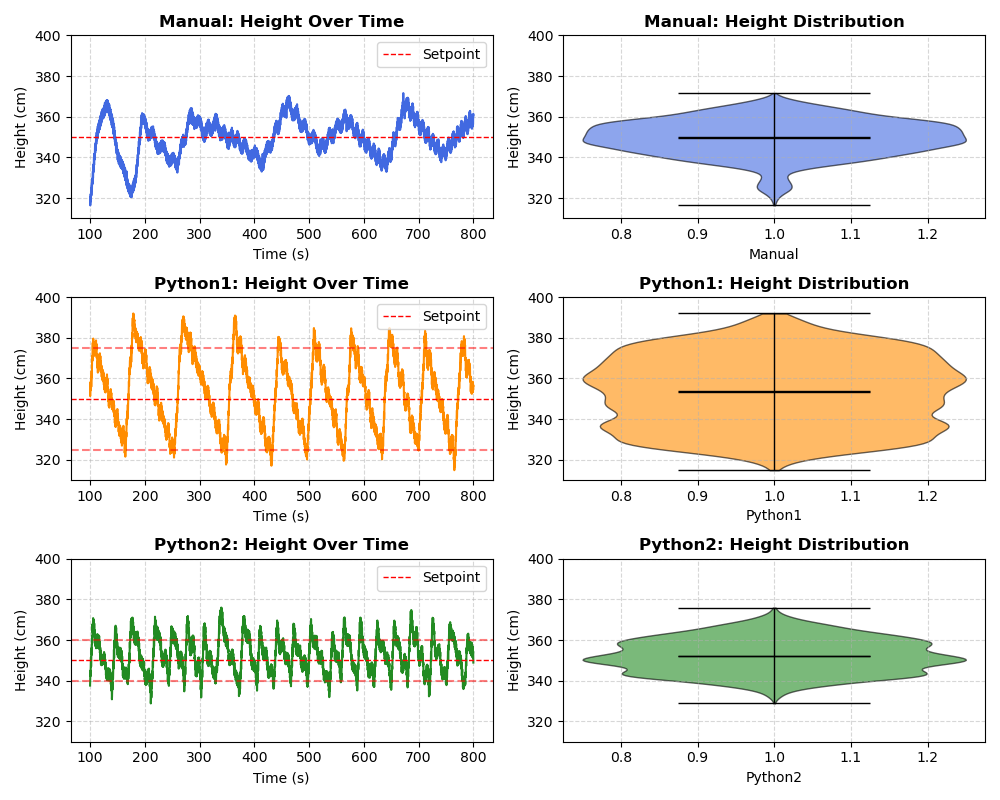
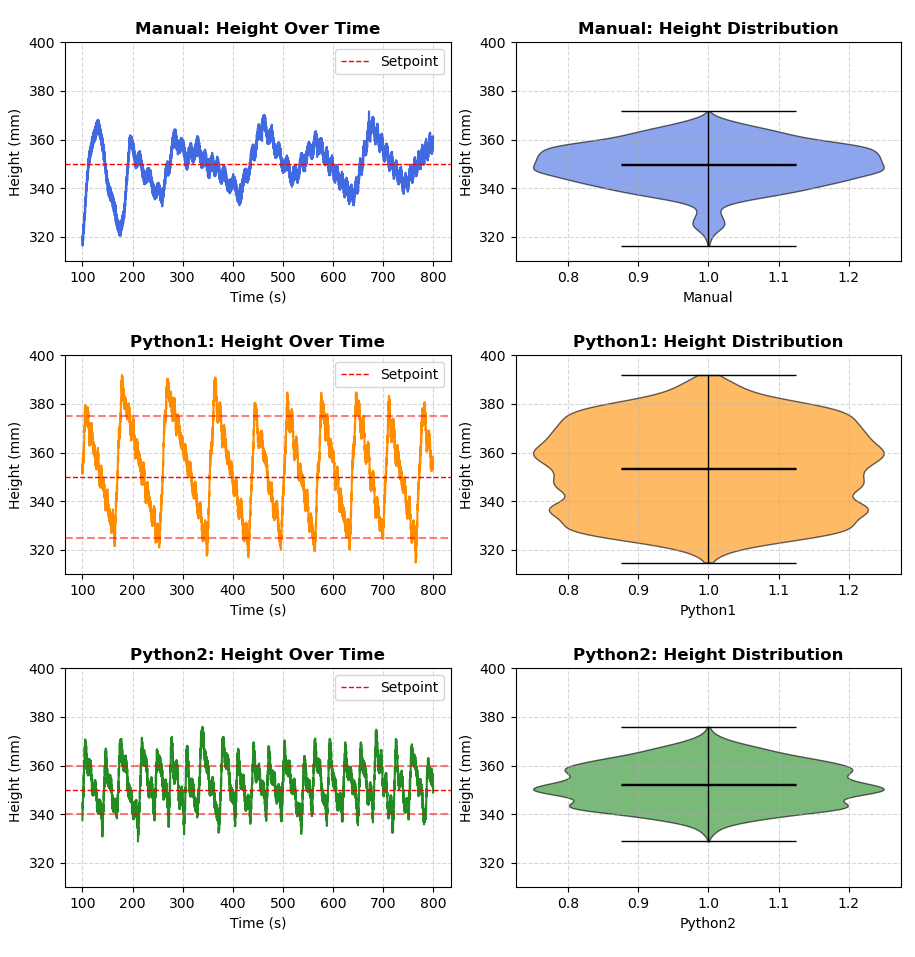
test

diff --git a/Project 1/Plotting-assignment-1-Nice.py b/Project 1/Plotting-assignment-1-Nice.py
@@ -51,7 +51,7 @@ for i, (name, color, time, heights) in enumerate(zip(titles, colors,
     axes[i, 0].plot(time, heights, color=color, linewidth=1.5)
     axes[i, 0].set_title(f"{name}: Height Over Time", fontsize=12, fontweight='bold')
     axes[i, 0].set_xlabel("Time (s)", fontsize=10)
-    axes[i, 0].set_ylabel("Height (cm)", fontsize=10)
+    axes[i, 0].set_ylabel("Height (mm)", fontsize=10)
     axes[i, 0].axhline(y=350, color='red', linestyle='--', linewidth=1, label="Setpoint")
     axes[i, 0].set_ylim(y_min, y_max)
     axes[i, 0].grid(True, linestyle="--", alpha=0.5)
@@ -69,7 +69,7 @@ for i, (name, color, time, heights) in enumerate(zip(titles, colors,
     violin = axes[i, 1].violinplot(heights, showmeans=True, showmedians=True)
     axes[i, 1].set_title(f"{name}: Height Distribution", fontsize=12, fontweight='bold')
     axes[i, 1].set_xlabel(name, fontsize=10)
-    axes[i, 1].set_ylabel("Height (cm)", fontsize=10)
+    axes[i, 1].set_ylabel("Height (mm)", fontsize=10)
     axes[i, 1].set_ylim(y_min, y_max)
     axes[i, 1].grid(True, linestyle="--", alpha=0.5)
 
